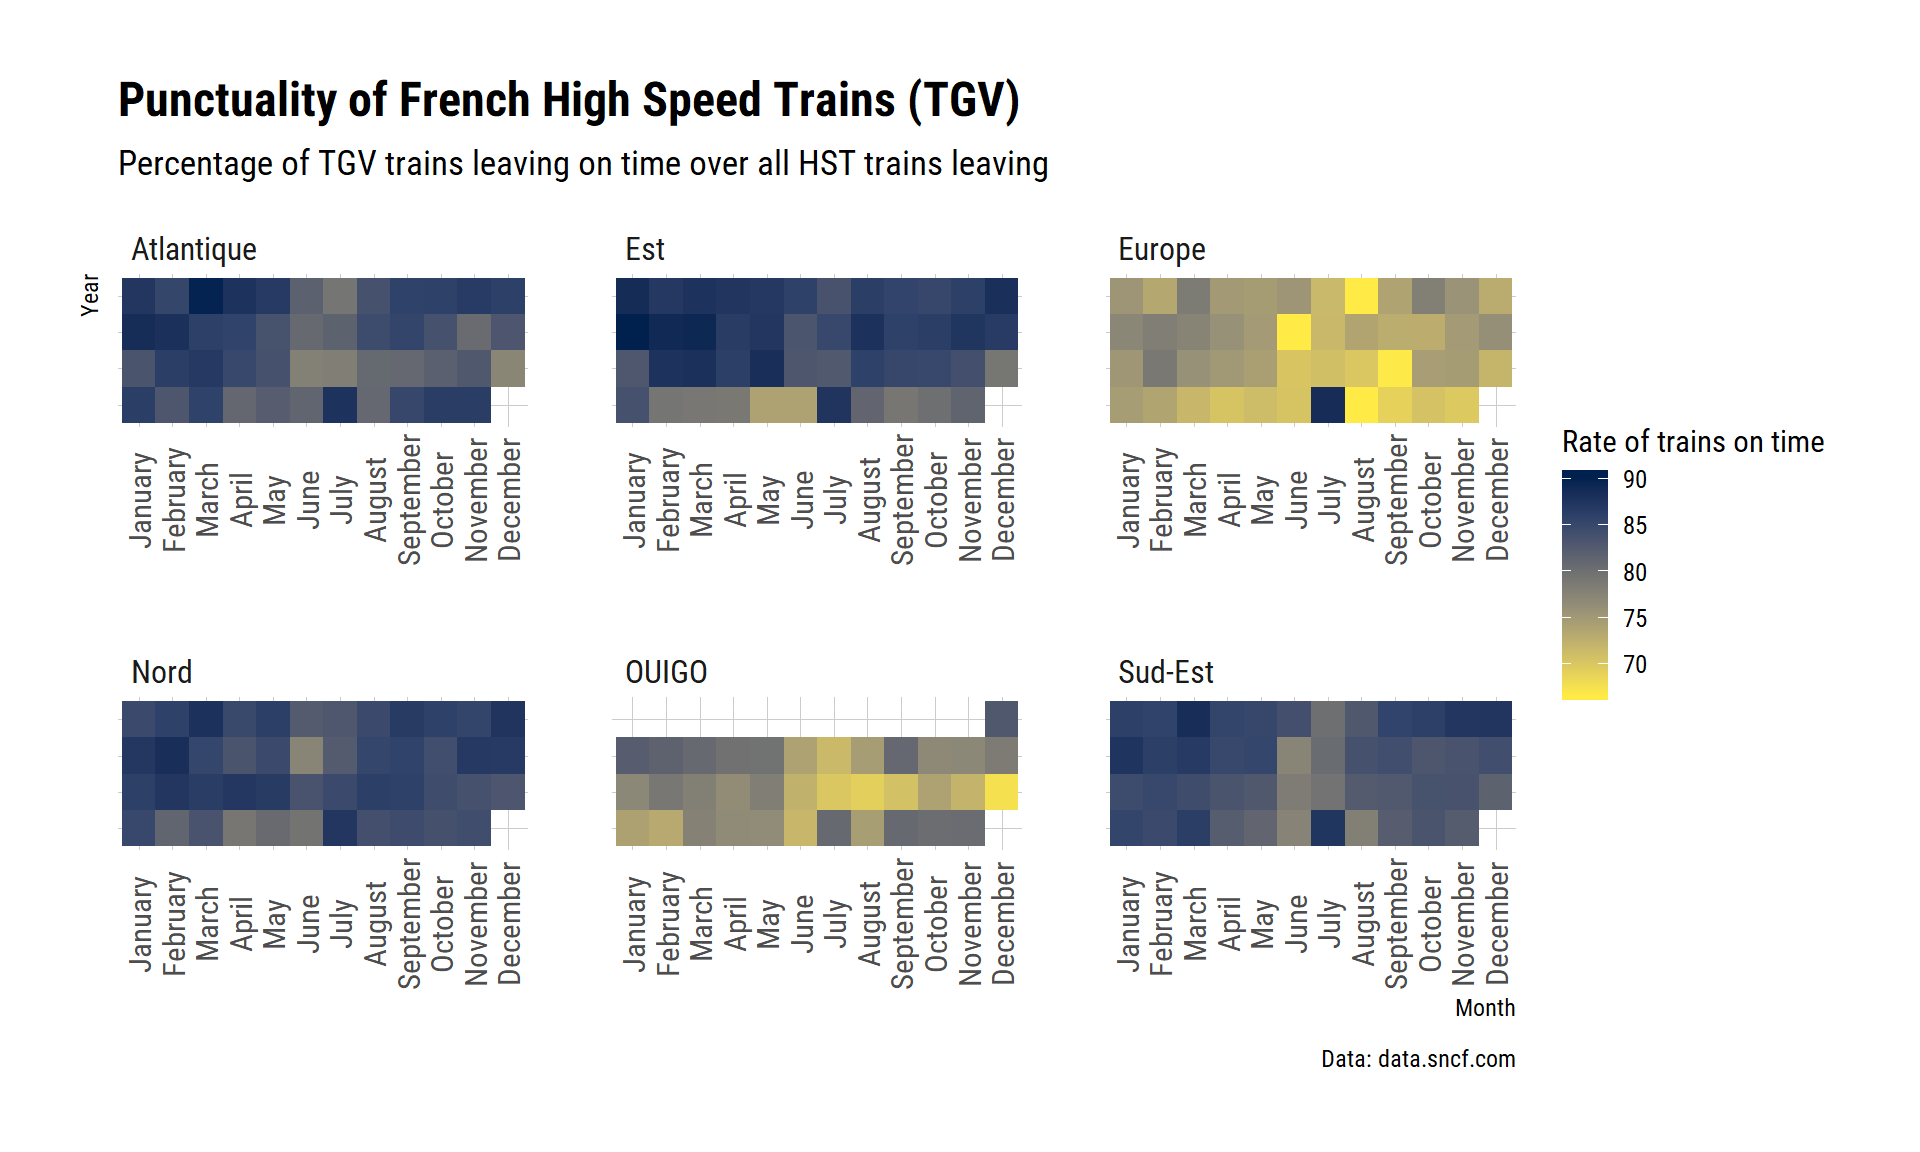
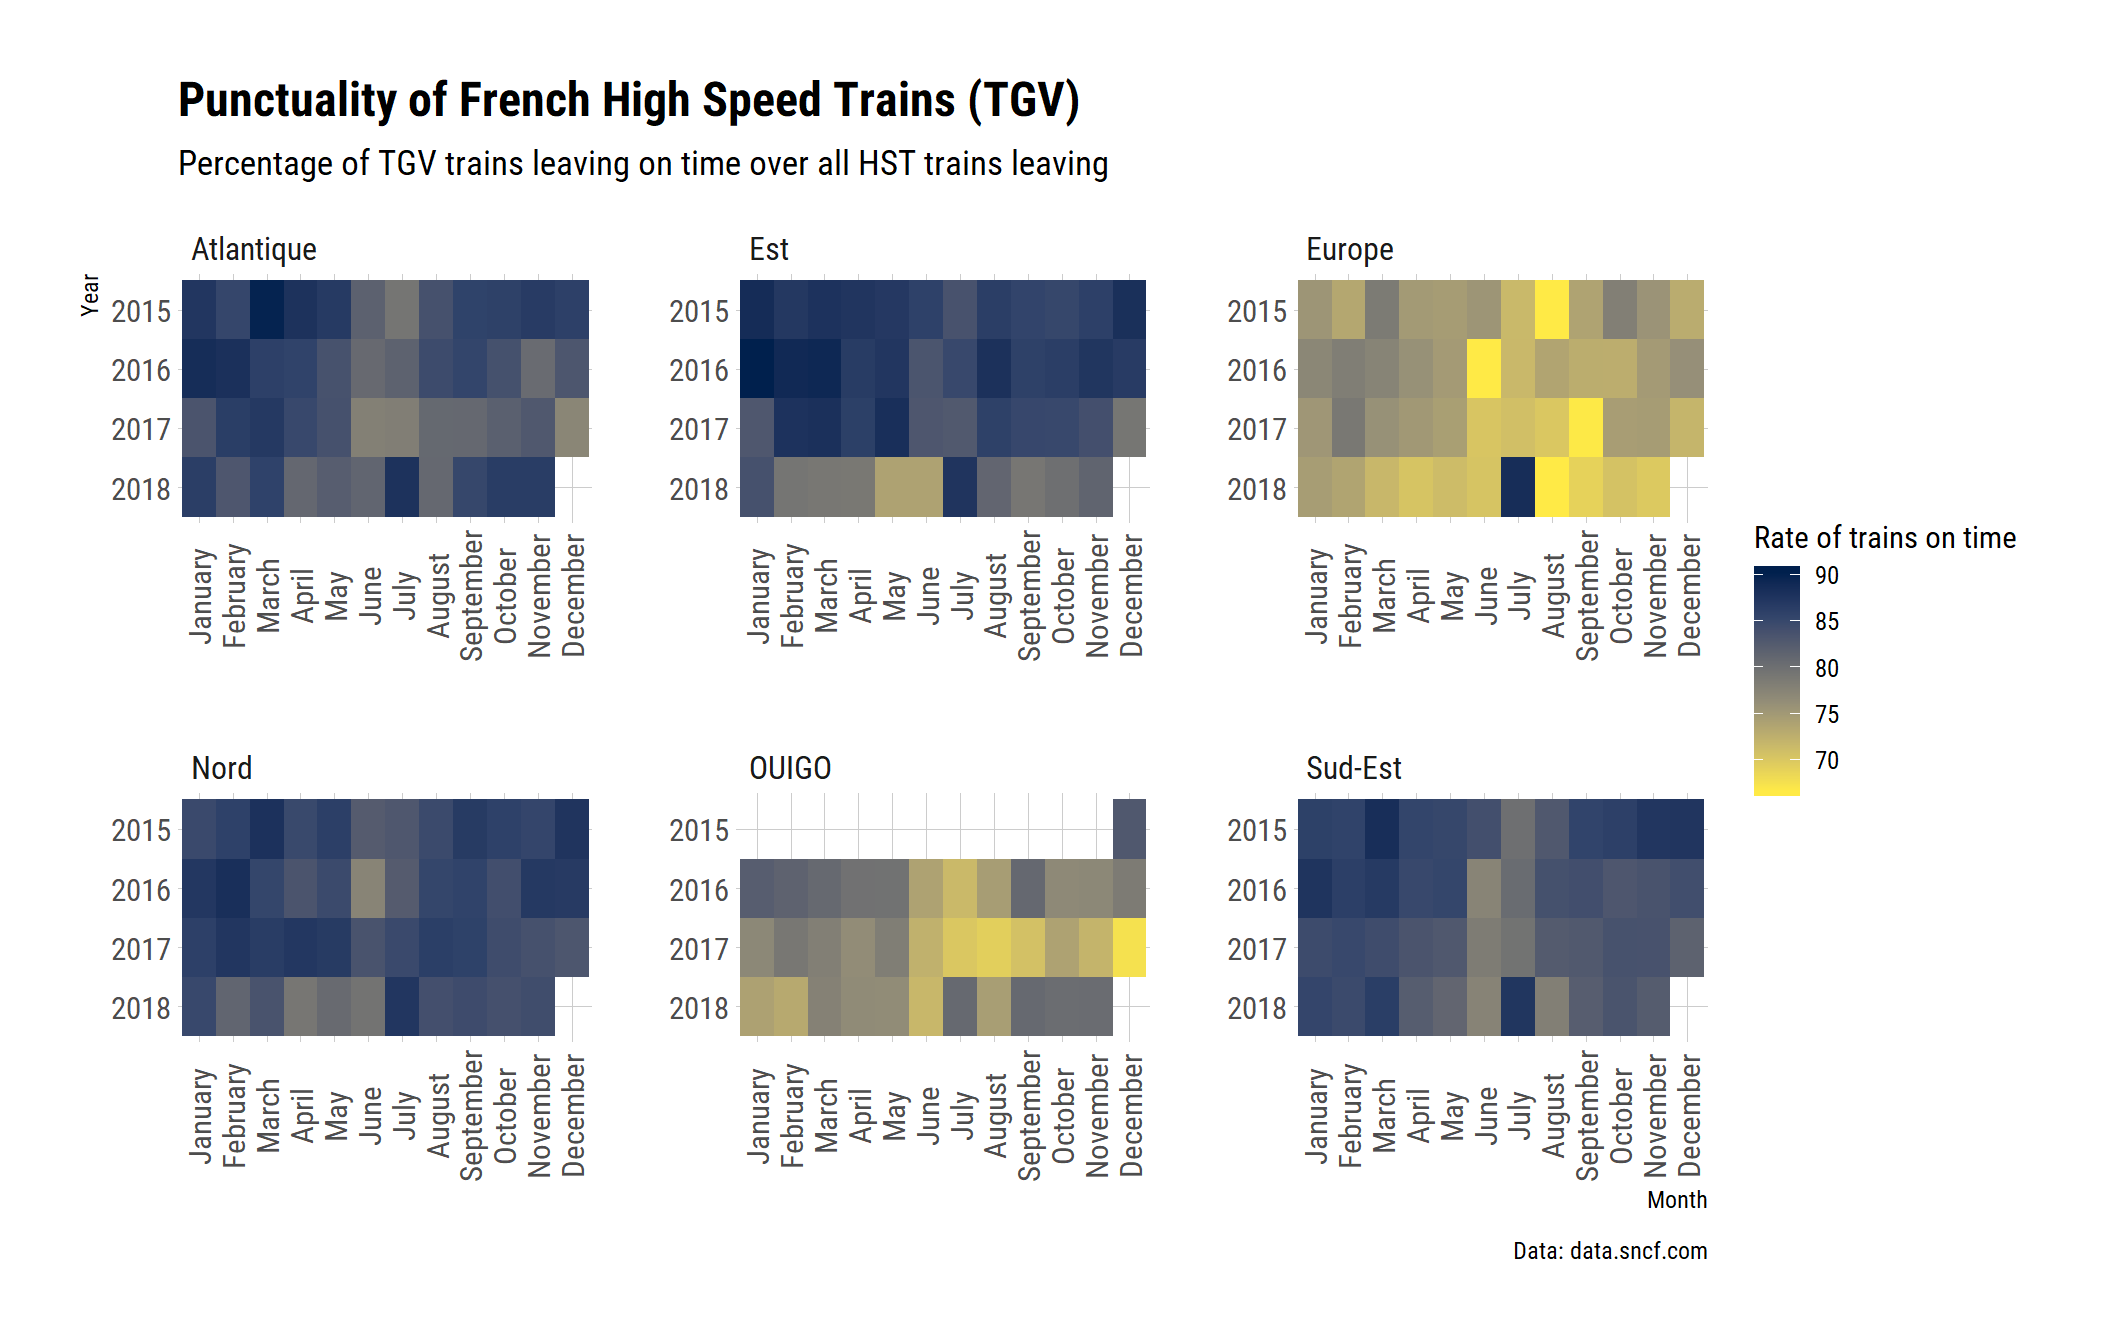
Add text to axis in train delay post

Changed region(s): [[0.0312, 0.0625, 0.9688, 0.9375], [0.0625, 0.5625, 0.2812, 0.875]]

diff --git a/content/content/post/2019-02-02-exploration-of-french-high-speed-trains-delays.html b/content/content/post/2019-02-02-exploration-of-french-high-speed-trains-delays.html
@@ -7,6 +7,8 @@ categories: []
 tags:
   - data visualisation
   - R
+editor_options: 
+  chunk_output_type: console
 ---
 
 
@@ -18,10 +20,10 @@ tags:
 <img src="https://media.giphy.com/media/3oKIPd0cPwxKl2zbPi/giphy.gif" />
 </center>
 <p>As a long-term user of French trains (and a delays serial complainer), I was immediately interested in their delay data. <a href="#fn1" class="footnoteRef" id="fnref1"><sup>1</sup></a></p>
-<p>The SNCF provides several datasets, on high-speed trains, between-region trains and regional trains. Since I mostly use the first one these days, and they are freaking <em>expensive</em>, I decided to investigate high-speed trains (aka <strong>TGV</strong>).</p>
+<p>The SNCF provides several datasets, on high-speed trains, between-region trains and regional trains. Since I mostly use the first one these days, and they are <em>freaking expensive</em>, I decided to investigate high-speed trains (aka <strong>TGV</strong>).</p>
 <div id="data-info-and-structure" class="section level2">
 <h2>Data info and structure</h2>
-<p>The dataset were downloaded on the 1st of February 2019 on the <a href="https://data.sncf.com/explore/?sort=modified">Open Data of the French train company</a>: <a href="https://data.sncf.com/explore/dataset/reglarite-mensuelle-tgv-nationale/information/?sort=date">train delays global</a> and train delays per <a href="https://data.sncf.com/explore/dataset/regularite-mensuelle-tgv-axes/information/?sort=date">train line</a>.</p>
+<p>The datasets were downloaded on the 1st of February 2019 on the <a href="https://data.sncf.com/explore/?sort=modified">Open Data of the French train company</a>: <a href="https://data.sncf.com/explore/dataset/reglarite-mensuelle-tgv-nationale/information/?sort=date">train delays global</a> and train delays per <a href="https://data.sncf.com/explore/dataset/regularite-mensuelle-tgv-axes/information/?sort=date">train line</a>.</p>
 <p>The two files concern the French high speed trains. Their structure is simple.</p>
 <p><code>tgv_axes</code>:<br />
 - <code>year</code>: from 2015 to November 2018,<br />
@@ -217,9 +219,8 @@ levels(tgv_axes$month_english) &lt;- c(&quot;January&quot;, &quot;February&quot;
   facet_wrap(~axe, nrow = 2, scales = &quot;free&quot;) +
   theme_ipsum_rc() +
   theme(axis.text.x = element_text(angle = 90, vjust = 0.5)) +
-  scale_fill_viridis_c(option = &quot;cividis&quot;, direction = -1) +
-  theme(axis.text.y = element_blank())</code></pre>
-<p><img src="/content/post/2019-02-02-exploration-of-french-high-speed-trains-delays_files/figure-html/heatmap3-1.png" width="960" /></p>
+  scale_fill_viridis_c(option = &quot;cividis&quot;, direction = -1)</code></pre>
+<p><img src="/content/post/2019-02-02-exploration-of-french-high-speed-trains-delays_files/figure-html/heatmap3-1.png" width="1056" /></p>
 </div>
 <div class="footnotes">
 <hr />
